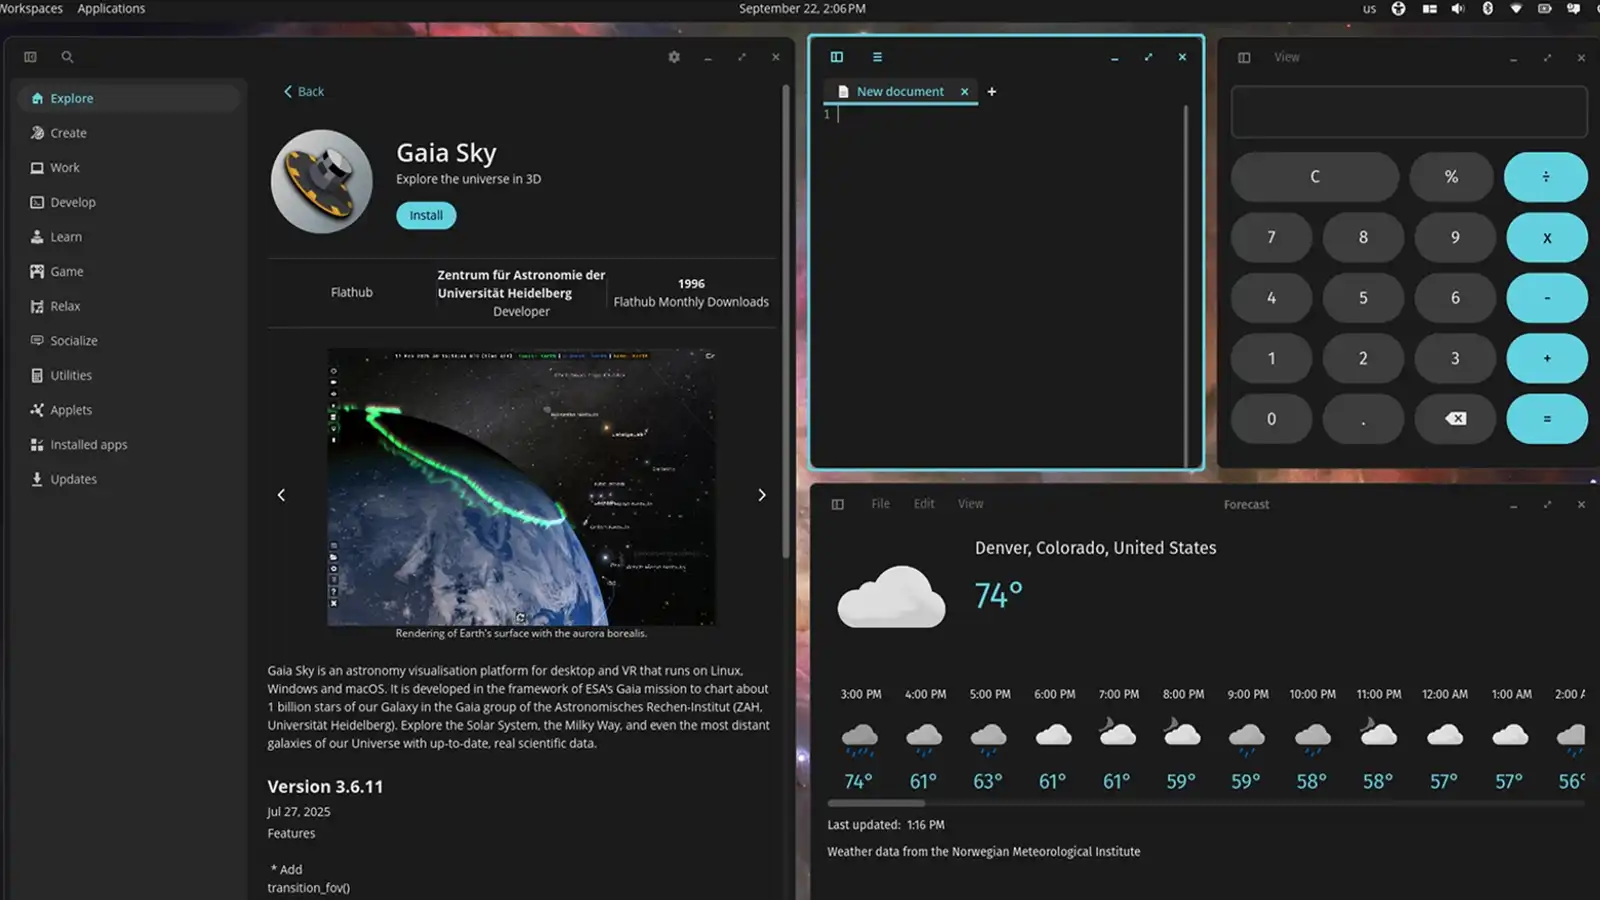
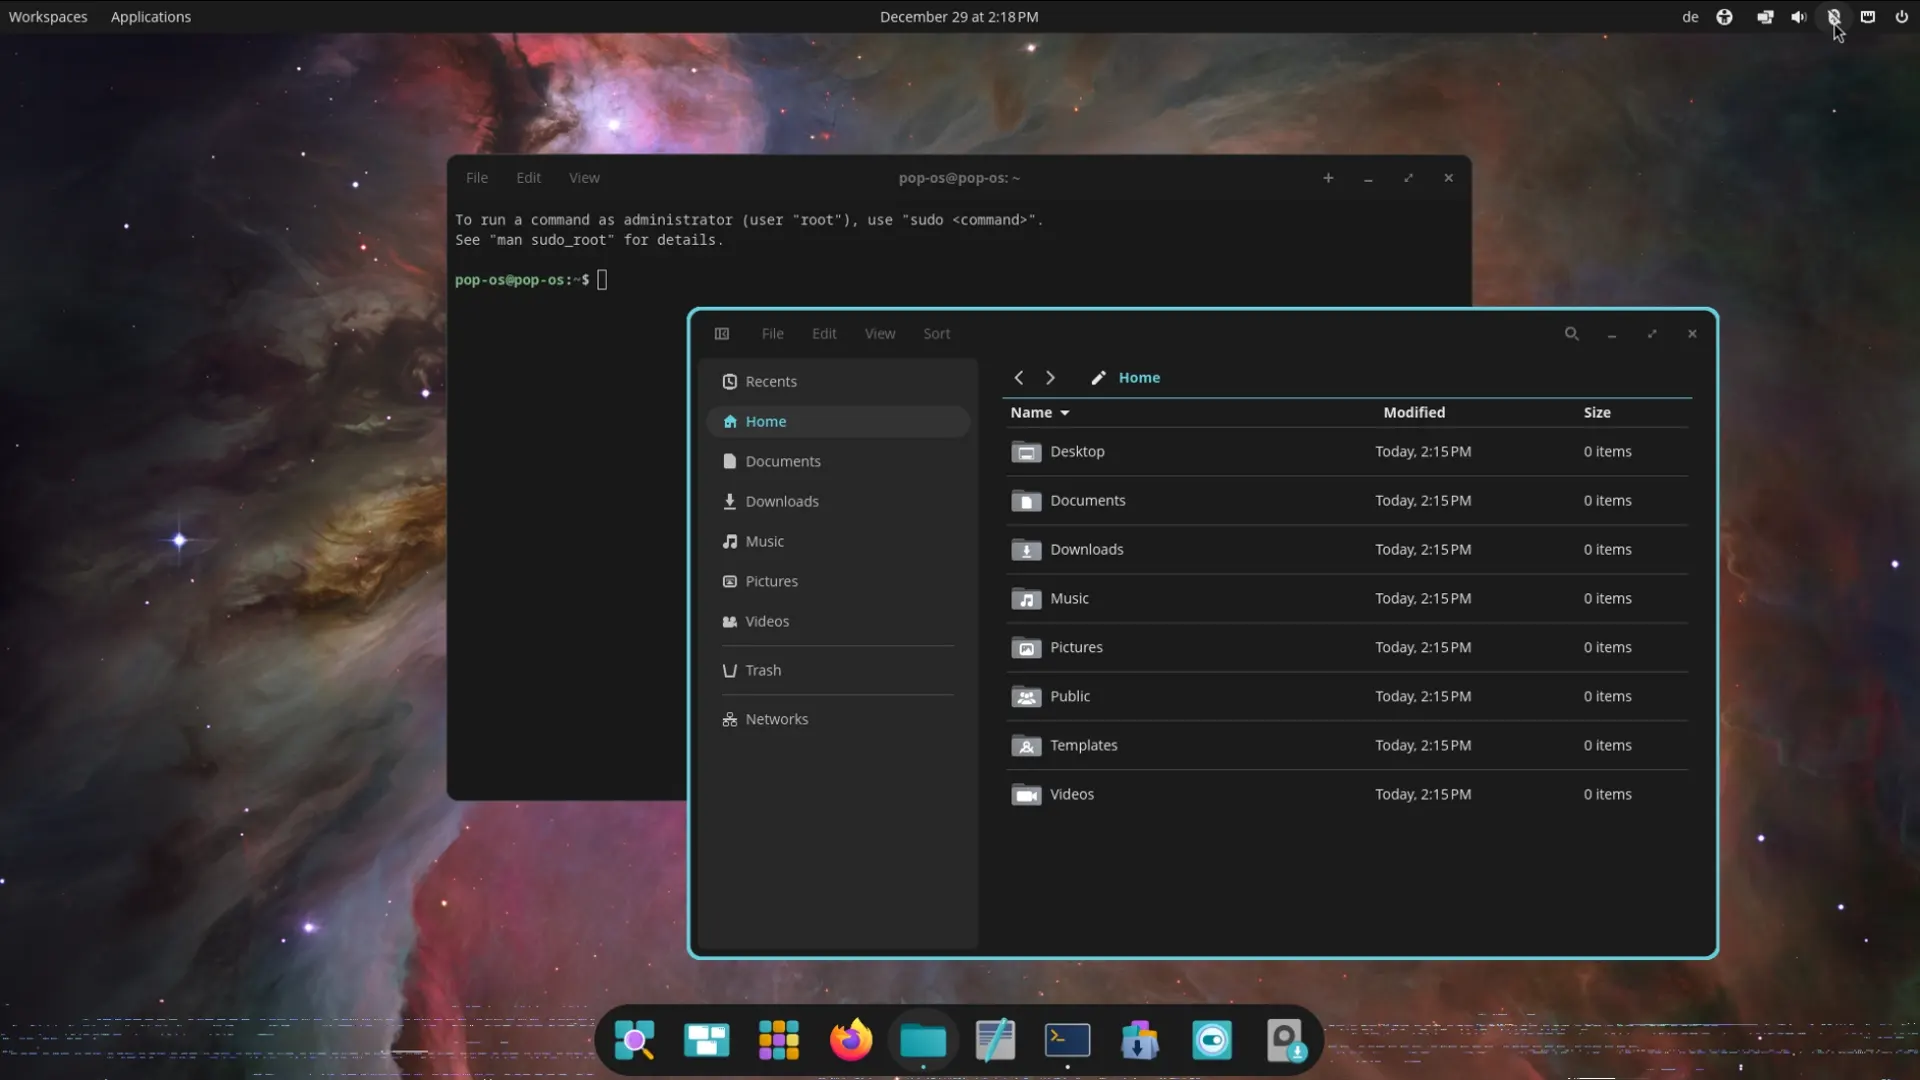
Update & Deploy

diff --git a/src/styles/home.css b/src/styles/home.css
@@ -54,6 +54,7 @@ video#scrub {
     border-radius: var(--radius-lg);
     box-shadow: var(--shadow-big);
     cursor: pointer;
+    /*box-shadow: inset 0px 0px 6px 2px rgba(255, 255, 255, 0.63);*/
     background-color: var(--bg-light);
     transition: translate 0.3s ease;
     animation:
@@ -65,12 +66,12 @@ video#scrub {
     translate: 0 -4px;
 }
 .distropicker {
-    grid-column: span 4;
-    grid-row: span 1;
+    grid-column: span 2;
+    grid-row: span 2;
 }
 
 .carousel {
-    grid-column: span 3;
+    grid-column: span 2;
     grid-row: span 2;
     background-color: black;
 }
@@ -116,10 +117,10 @@ video#scrub {
 
 .resources {
     grid-column: span 1;
-    grid-row: span 1;
+    grid-row: span 2;
 }
 .protondb {
-    grid-column: span 1;
+    grid-column: span 2;
     grid-row: span 1;
 }
 

diff --git a/src/styles/distropicker.css b/src/styles/distropicker.css
@@ -424,8 +424,8 @@ label:hover {
 }
 
 #radar {
-    width: 64px;
-    height: 64px;
+    width: 128px;
+    height: 128px;
     margin-bottom: 32px;
     margin-top: 32px;
     filter: drop-shadow(0rem 0.35rem 1rem rgba(0, 0, 0, 0.1)) !important;